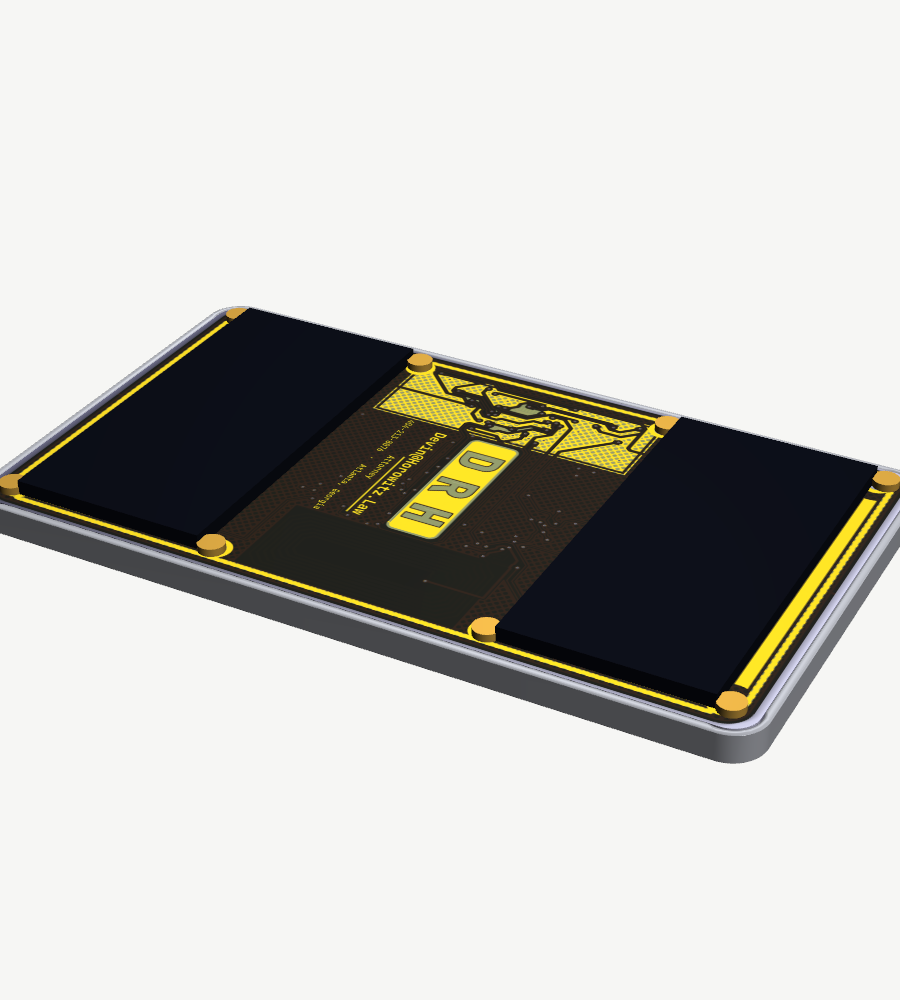
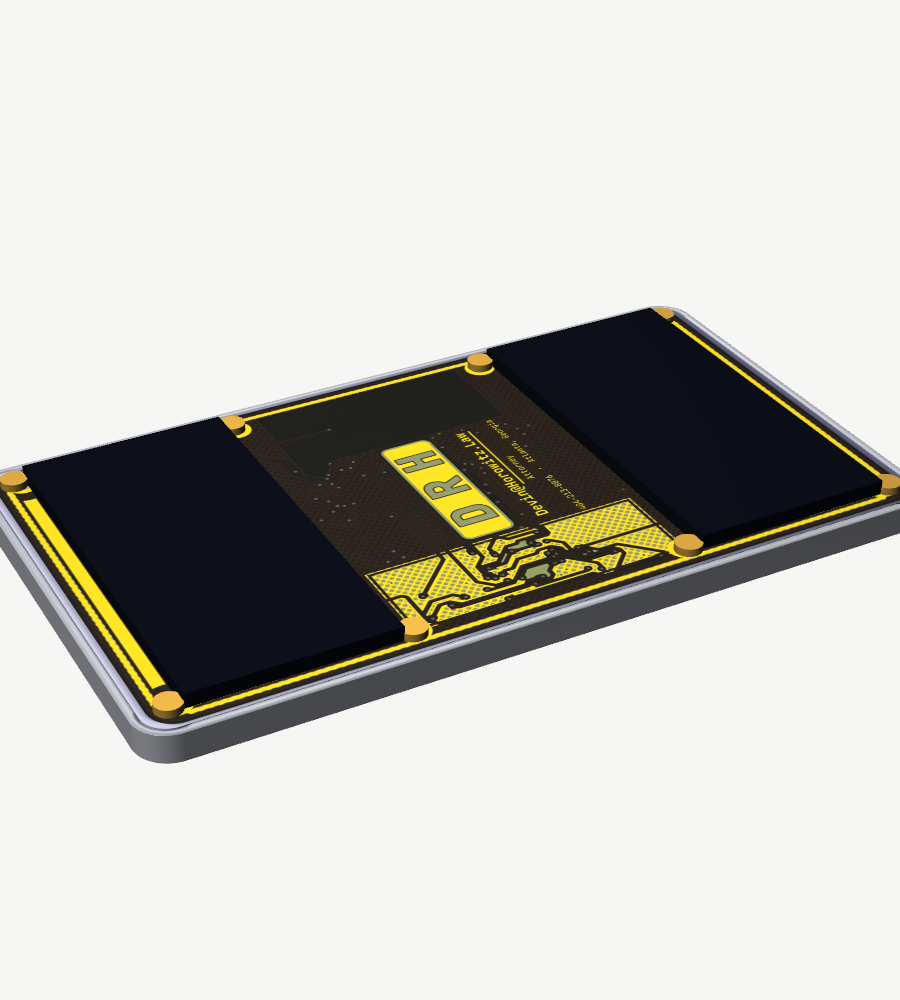
enclosure: every render we shipped was mirrored
Board coordinates are X-right, Y-down, Z-front. That triple is LEFT-handed -- x_hat cross y_hat
= -z_hat -- and it was being dropped straight into a right-handed renderer, so every image this
script has ever produced came out mirrored in X.

Probed rather than argued: with the camera in front and up = -Y, a marker at board x=45 lands on
the LEFT of frame, where the real card puts it on the right. The up vector cannot fix it either;
up = +Y rights the X axis and stands the card on its head.

It survived this long because the shell is X-symmetric -- outline, eight bosses, both cell
cutouts. There were exactly two tells, and both were being read as something else: the engraved
maker's mark, which I had already chased once and (correctly) cleared on the geometry, and the
asymmetric support lip -- 2.5 mm west against 1.0 east -- which sat on the wrong side in every
cavity view ever published.

Mirroring the finished image is exactly equivalent to mirroring the scene, because a mirror is
all the defect is. Applied at the two write paths every output goes through, so nothing can miss
it. Two cosmetic consequences, neither factual: the turntables now turn the other way, and the
key light appears to come from the other side.

The card-face texture UV goes back with it. It had been flipped to CANCEL this mirror -- that is
why the artwork looked right while the geometry did not -- so with the mirror gone the
[…]

Changed region(s): [[0.0, 0.279, 1.0, 0.775]]

diff --git a/enclosure/assembly_render.py b/enclosure/assembly_render.py
@@ -125,6 +125,25 @@ def actor(pd, rgb, spec=0.25, power=20, opacity=1.0):
     return a
 
 
+# THE SCENE IS LEFT-HANDED, so every render leaves here mirrored unless we say otherwise.
+# Board coords are X-right, Y-down, Z-front -- x_hat cross y_hat = -z_hat -- and dropping that
+# straight into a right-handed renderer mirrors the picture. Probed rather than assumed: with the
+# camera in front and up = -Y, a marker at board x=45 lands on the LEFT of frame, where the real
+# card puts it on the right. You cannot fix it with the up vector either; up = +Y rights the X
+# axis and stands the card on its head.
+#
+# It hid for so long because the shell is X-symmetric -- outline, eight bosses, both cell cutouts.
+# The only tells are the engraved maker's mark, which read backwards in every hero we shipped, and
+# the asymmetric support lip (2.5 west against 1.0 east), which sat on the wrong side in every
+# cavity view.
+#
+# Mirroring the finished image is exactly equivalent to mirroring the scene, because that is all
+# the defect is. Two cosmetic consequences, neither factual: the turntables now turn the other
+# way, and the key light appears to come from the other side.
+def present(img):
+    return img.transpose(Image.FLIP_LEFT_RIGHT)
+
+
 GIF_COLORS = 256                       # GIF maximum
 GIF_DE = 20                            # a shift this big in a flat area is a visible wrong hue
 GIF_DE_FRAC = 0.5                      # ...and this much of the loop moving that far is the bug
@@ -178,6 +197,7 @@ def _frames_of(path):
 
 def save_png_stable(img, path):
     """Same noise gate as the GIFs, for the textured stills."""
+    img = present(img)
     if _is_noise(_frames_of(path), [img]):
         print(f"kept {os.path.basename(path)}  (re-render differs only by raytracer noise)")
         return False
@@ -201,6 +221,7 @@ def encode_gif(imgs, path, ms, label):
     of half-megapixel there is always a specular outlier, and a max-shift gate fired at 70/255 on
     a sequence whose flat areas were already clean.
     """
+    imgs = [present(i) for i in imgs]
     srcs = imgs[::max(1, len(imgs) // 10)]
     mont = Image.new("RGB", (imgs[0].width, imgs[0].height * len(srcs)))
     for n, im in enumerate(srcs):
@@ -291,11 +312,11 @@ if not os.path.exists(TEX):
 _tm = vtk.vtkTextureMapToPlane()
 _tm.SetInputData(board_pd)
 # Orientation is not guessable from VTK's conventions -- the texture origin, the PNG reader's
-# row order and KiCad's y-down all interact. All four u/v corner assignments were rendered
-# top-down and correlated against the plot itself: this one scores 0.981, the others 0.62-0.82.
-# The failure mode is quiet and embarrassing rather than loud: the first attempt textured
-# perfectly and rendered the name and number MIRRORED.
-_tm.SetOrigin(W, H, Z_FRONT); _tm.SetPoint1(0.0, H, Z_FRONT); _tm.SetPoint2(W, 0.0, Z_FRONT)
+# row order and KiCad's y-down all interact -- so all four u/v corner assignments were rendered
+# top-down and correlated against the plot itself. This corner assignment is the one that is
+# correct once `present()` undoes the scene's left-handedness; the opposite one was correct
+# BEFORE that, because it cancelled the mirror. Change one and you must change the other.
+_tm.SetOrigin(0.0, H, Z_FRONT); _tm.SetPoint1(W, H, Z_FRONT); _tm.SetPoint2(0.0, 0.0, Z_FRONT)
 _tm.Update()
 board_pd = _tm.GetOutput()
 
